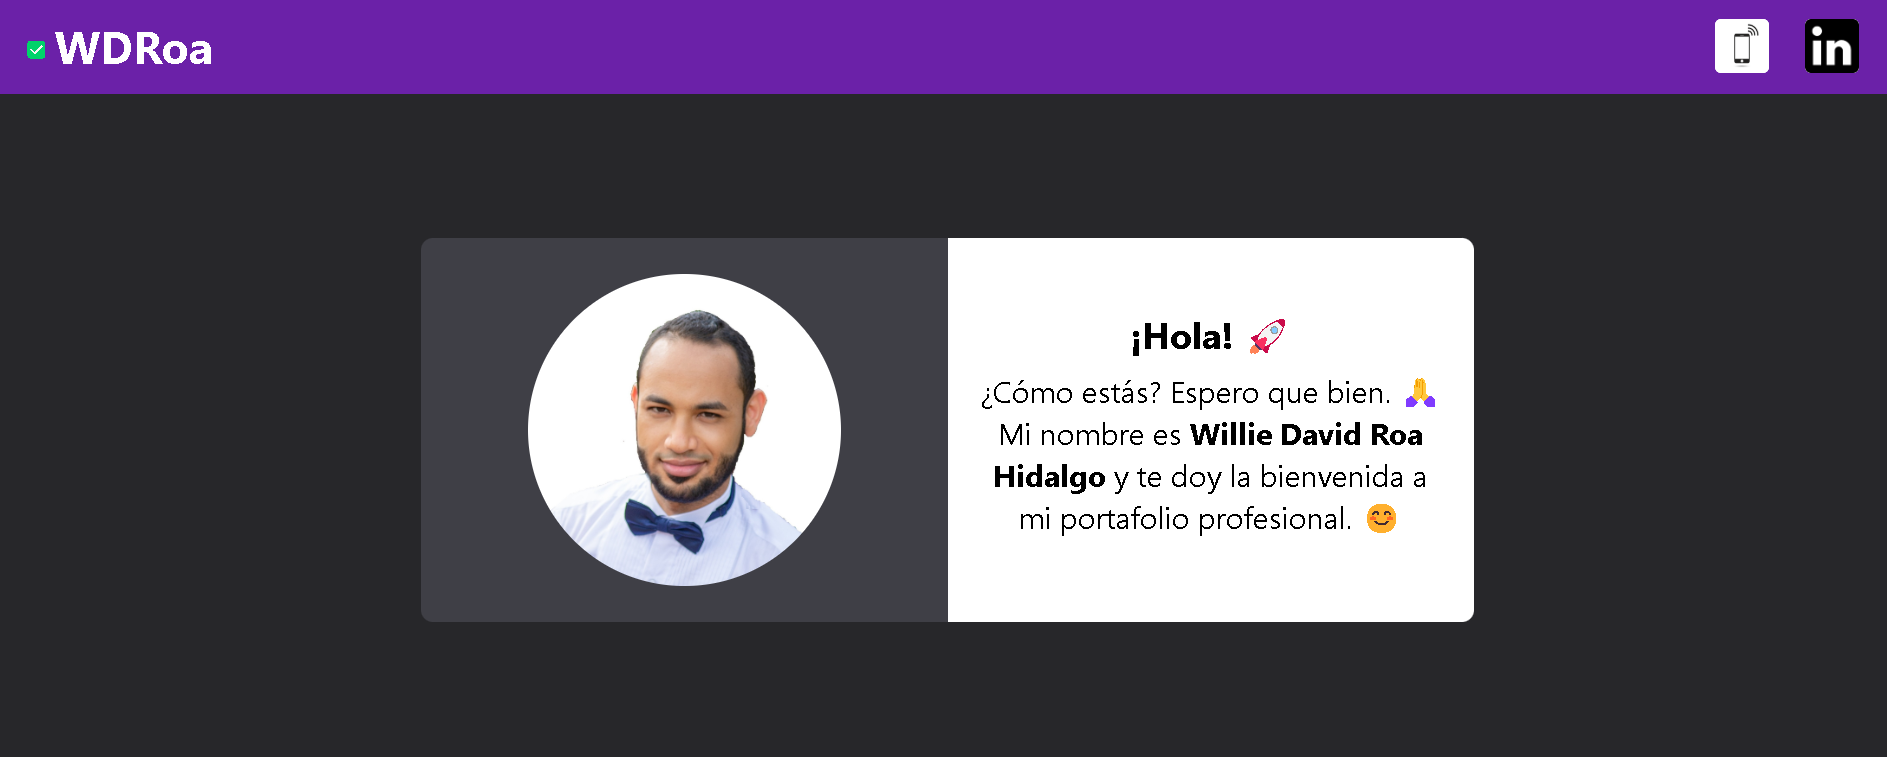
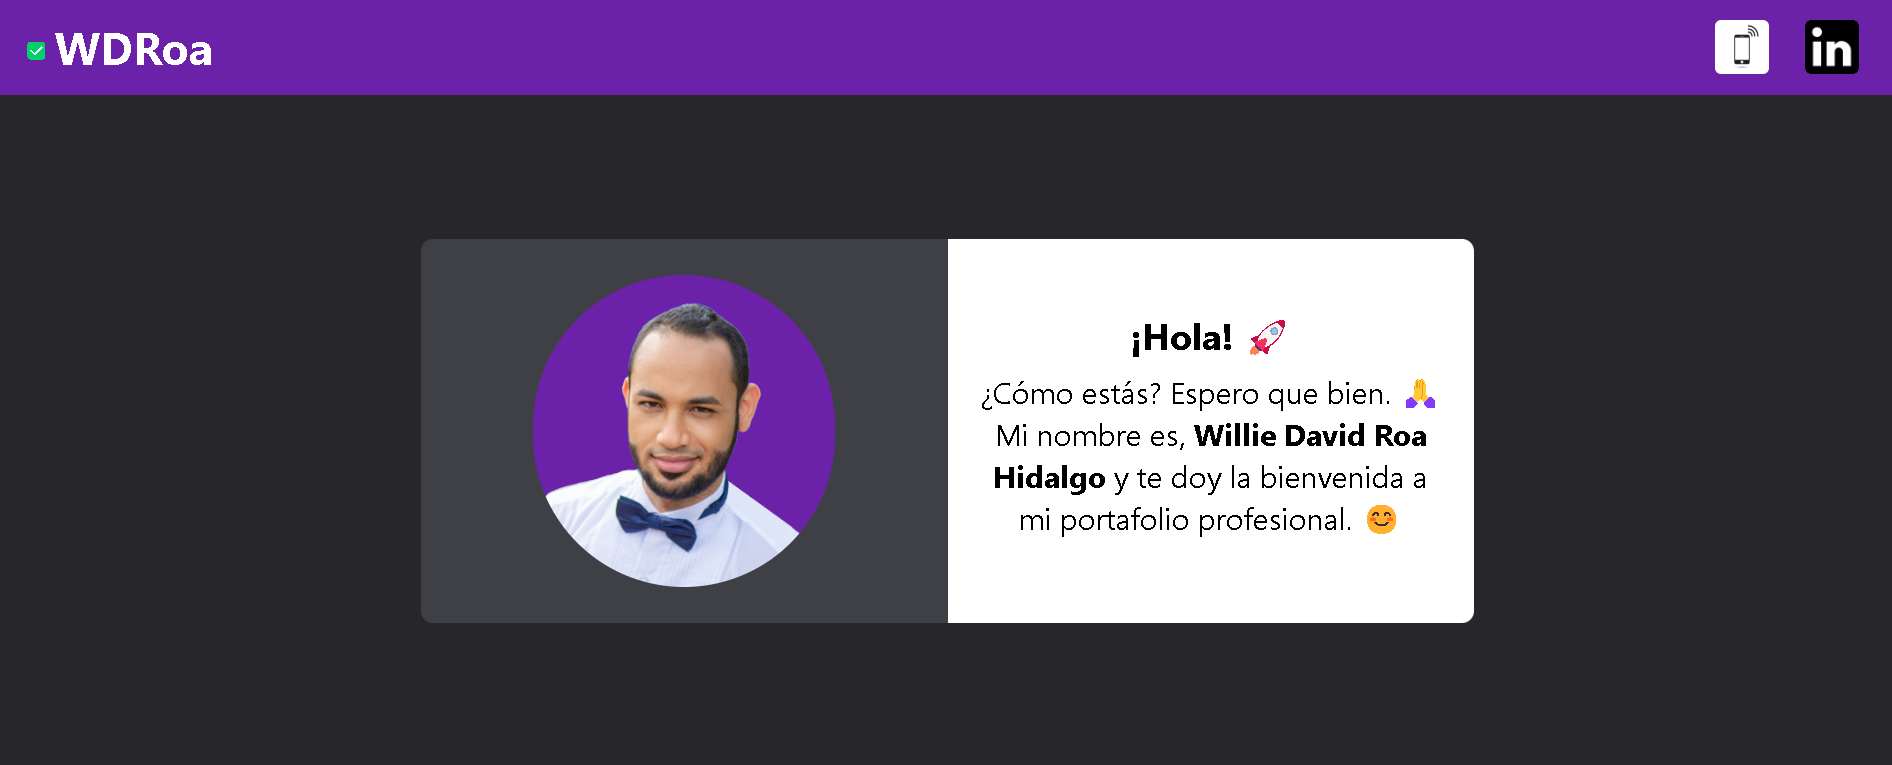
Se cambió el color de fondo de mi foto, la vista previa del proyecto y se retocó la sección Sobre Mí.

diff --git a/index.html b/index.html
@@ -68,7 +68,7 @@
                     Soy un <strong>colaborador apasionado</strong> por la satisfacción de mis clientes desde muy temprana edad. Con <strong>más de 10 años</strong> de experiencia laboral en Atención a Clientes, Soporte Técnico y TI. <strong>Experto en resolución de problemas;</strong> Ayudando, guiando y orientando, con mucha empatía, paciencia y eficacia. Con conocimientos en desarrollo web que fortalecen mi capacidad para resolver incidencias complejas, y crear soluciones innovadoras. 
                 </p>
                 <p class="text-xl mb-10">
-                    • Si buscas una persona respetuosa, confiable y organizada, estaré encantado de ayudarte. <strong>¡Conversemos!</strong>
+                    • Si buscas una persona respetuosa, honesta, confiable y organizada, estaré encantado de ayudarte. <strong>¡Conversemos!</strong>
                 </p>
                 <h2 class="text-4xl font-bold m-5">Experiencia Profesional</h2>
                 <h3 class="text-3xl font-bold text-purple-800">Full Stack Web Developer JavaScript en Proyectos Propios</h3>
